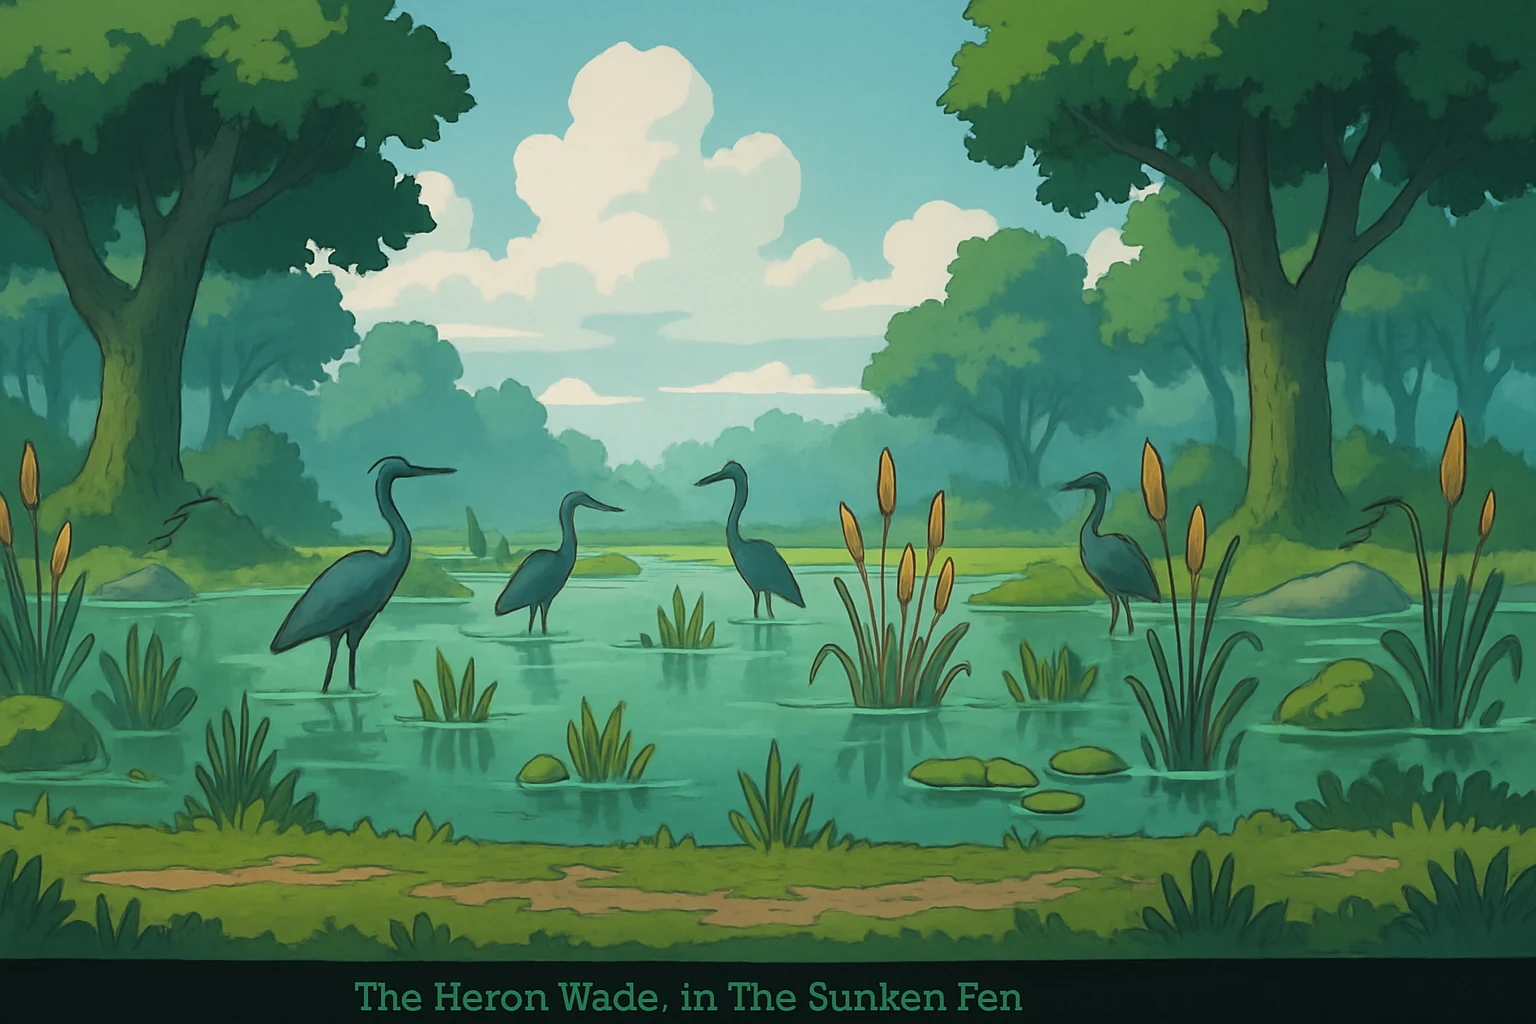
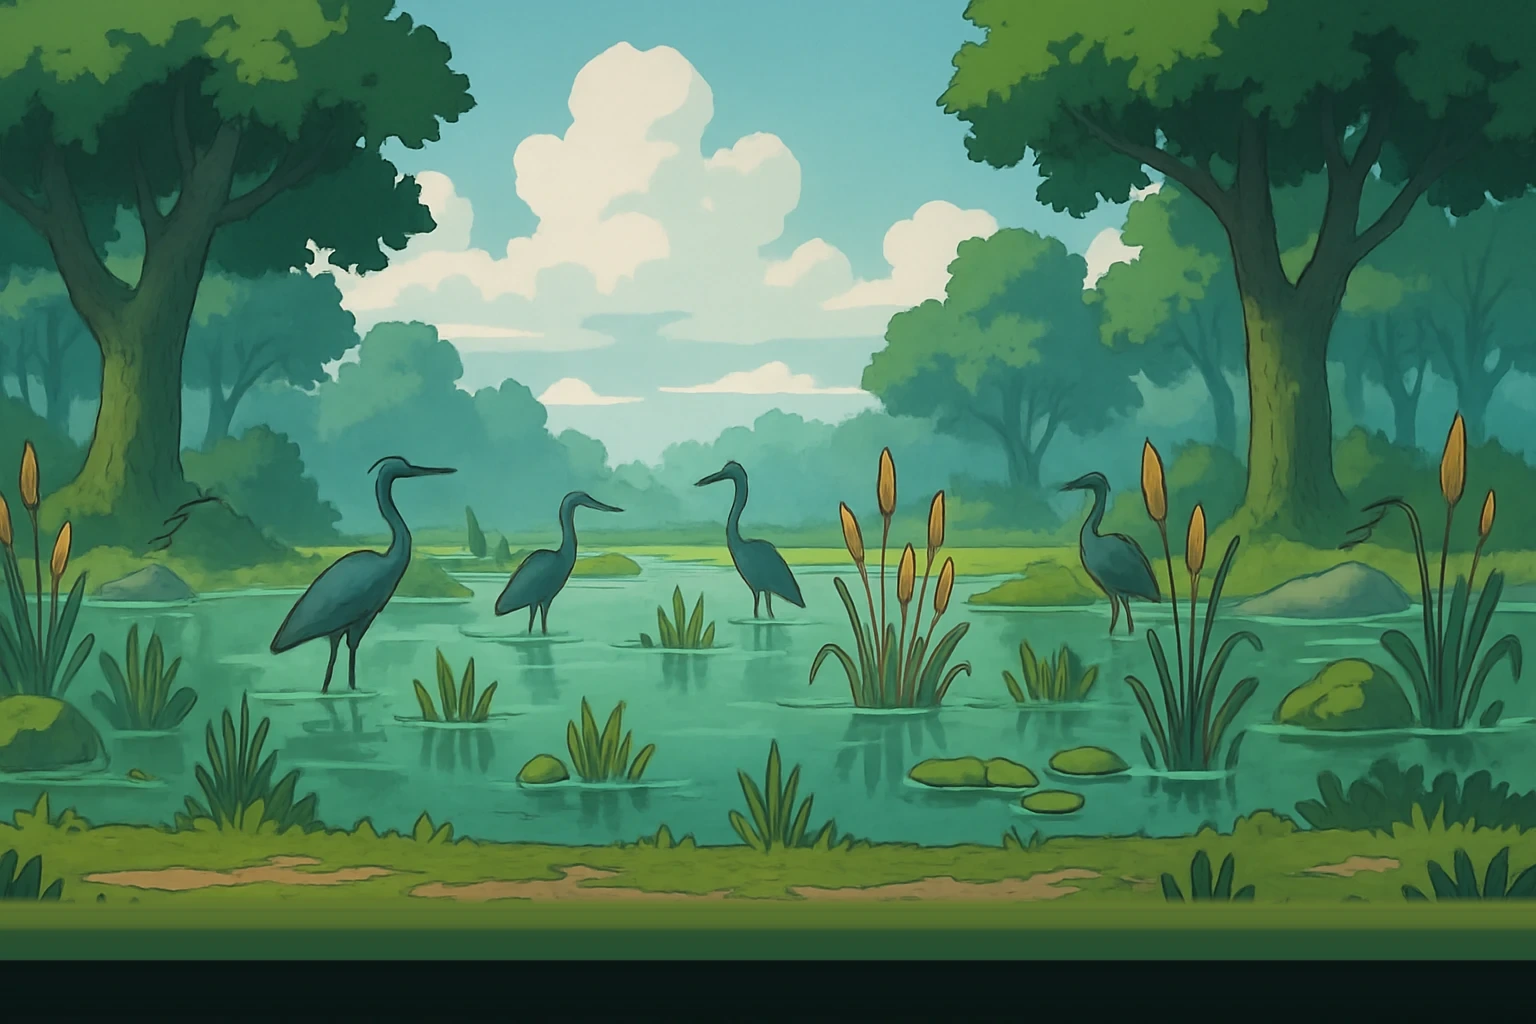
Grove: the plates stop saying their own names, and Quests gets a door
TWO THINGS LUKE ASKED FOR.

── THE BAKED-IN CAPTIONS ───────────────────────────────────────────────
Four plates came back from the generator with a title painted into them --
"The Heron Wade, in The Sunken Fen" -- despite the plate brief ending in
"no text, no words, no logo, no watermark, no border". The model ignored it.

⚠ NOTHING WAS REDRAWN. Regenerating a shipped plate costs money and loses
to the original nearly every time. The caption sits in a flat horizontal
band of dirt BELOW the painted ground line, and a flat band is the one
thing repairable without a model: every row is rebuilt from its own median
colour, which is what the band would have been had the caption never been
painted on it. Feathered at the top edge so the repair does not meet the
art in a hard line. Originals kept in .promo/plate-backup.

Cloning a clean slice sideways was the first cut and only works where the
lettering leaves clean band beside it -- true of shrike_cliffs, not of the
other two, whose bands carry enough rock and grass texture that the
detector correctly calls the whole width busy.

sigil_road is DELIBERATELY NOT TOUCHED: its lettering is carved into a
gravestone as part of the scene, which is a signpost rather than a
watermark, and repairing it means repainting a stone. Luke's call.

── QUESTS IS A FIRST-CLASS DOOR ────────────────────────────────────────
Luke: "I wamt a question meni item and area first class please design it
[…]

Changed region(s): [[0.0, 0.875, 0.6875, 1.0], [0.7188, 0.875, 1.0, 0.9375]]

diff --git a/src/components/grove/GroveClient.js b/src/components/grove/GroveClient.js
@@ -140,7 +140,7 @@ const GROVE_STAT_READOUT = {
 // annotates itself is a menu that does not trust its own labels, and nine of them on one screen is the
 // list telling you to read rather than to pick. GroveMenu still renders `note` when a row carries one;
 // nothing does any more.
-const familiesFor = ({ benchFresh = 0, statuesHeld = 0 } = {}) => [
+const familiesFor = ({ benchFresh = 0, statuesHeld = 0, questsReady = 0, questsActive = 0 } = {}) => [
     {
         title: "Go", rows: [
             { k: "map", label: "Map", art: "/images/grove/ui-map.webp" },
@@ -158,7 +158,16 @@ const familiesFor = ({ benchFresh = 0, statuesHeld = 0 } = {}) => [
             // I grabbed an asset because it was lying around and its name sounded right, which is
             // [[grep-the-class-name-before-taking-it]] wearing a different hat. ui-quests.webp is a
             // notice board drawn for this row.
-            { k: "quests", label: "Quests", art: "/images/grove/ui-quests.webp" },
+            // ⚠ THE SAME BADGE RULE AS THE ZONE'S, because it is the same door and a player should
+            // not have to learn that the number means something different depending on where they are
+            // standing. Ready-to-hand-in badges; in-progress is only a note. See ZONE_FAMILIES.
+            {
+                k: "quests", label: "Quests", art: "/images/grove/ui-quests.webp",
+                badge: questsReady > 0 ? String(questsReady) : null,
+                note: questsReady > 0
+                    ? `${questsReady} ready to hand in`
+                    : questsActive > 0 ? `${questsActive} on the go` : null,
+            },
             // ⚠ TOWN IS A PLACE IN THE GROVE, NOT A WAY OUT OF IT. Luke: "if you go to town, you
             // completely get booted out of the Grove. Like, the whole experience is lost... when you're
             // in the town, it should be like you're in any other zone of the Grove with the menu on the
@@ -1572,6 +1581,10 @@ export default function GroveClient({ initial, initialView = null, initialTown =
                     // Whoever is standing in THIS zone, if anyone. Most zones have nobody — three givers
                     // across twelve rooms — so the scene draws a figure only when this is non-null.
                     npcHere={col.run ? null : (session.npcHere || null)}
+                    // ⚠ FROM THE SESSION'S OWN BOARD, which refreshBoard keeps current -- so the badge
+                    // moves the moment a step finishes rather than at the next zone entry.
+                    questsReady={(session.quests || []).filter((q) => q.active?.ready).length}
+                    questsActive={(session.quests || []).filter((q) => q.active?.started && !q.active.ready).length}
                     // ── ⚠ THE COLISEUM IS IN A ZONE, SO IT IS DRAWN IN THAT ZONE ───────────────
                     // coliseumState is keyed on MAP, which is why its card showed up identically in
                     // all twelve rooms and "Coliseum · zone 7" was a sentence about a place that did
@@ -1863,7 +1876,14 @@ export default function GroveClient({ initial, initialView = null, initialTown =
                 open={menuOpen}
                 onOpen={() => setMenuOpen(true)}
                 onClose={() => setMenuOpen(false)}
-                families={familiesFor({ benchFresh: st ? readyCount(st) : 0, statuesHeld: statueCount })}
+                families={familiesFor({
+                    benchFresh: st ? readyCount(st) : 0,
+                    statuesHeld: statueCount,
+                    // The hub has no session, so the board comes off st -- the same list, read from the
+                    // other of its two homes. See the note where GroveQuests is mounted.
+                    questsReady: (st?.quests || []).filter((q) => q.active?.ready).length,
+                    questsActive: (st?.quests || []).filter((q) => q.active?.started && !q.active.ready).length,
+                })}
                 current={view}
                 onPick={(k) => setView(k)}
             />

diff --git a/src/components/grove/GroveScene.js b/src/components/grove/GroveScene.js
@@ -140,6 +140,26 @@ const SETTLE_EVERY_MS = 45_000;
 // ⚠ SAME KEYS AS BEFORE. openPanel is unchanged and still flushes the kill batch before anything opens --
 // see the note at the markup. The arrangement moved; the wiring did not.
 const ZONE_FAMILIES = [
+    // ── ⚠ QUESTS IS A ZONE DOOR NOW, AND IT IS THE FIRST ONE ──────────────────────────────────
+    // Luke: "I wamt a question meni item and area first class please design it properly."
+    //
+    // It was deliberately left out, and the note in GroveClient said why: "minus Quests, which has no
+    // meaning while you are standing inside a zone." That was TRUE of what the panel used to be -- a
+    // tracker whose whole job was naming the zone a giver stands in, which is a thing you read before
+    // you set off, not while you are fighting.
+    //
+    // It is not true of what the panel is now. The log carries live progress, the creature and the rooms
+    // it lives in, and a hand-in -- and every one of those is most useful IN a zone, mid-kill, when the
+    // question is "does any of this count for anything". Leaving it out meant the only way to look at a
+    // quest while doing it was to leave the zone, and leaving is not a free action.
+    //
+    // ⚠ AND IT GOES ABOVE THE MAP. The menu's first row is what the game thinks you should do next;
+    // the map is where you go when you have decided. [[a-screen-with-no-door-is-not-shipped]].
+    {
+        title: "Do", rows: [
+            { k: "quests", label: "Quests", art: "/images/grove/ui-quests.webp" },
+        ],
+    },
     {
         title: "Go", rows: [
             { k: "map", label: "Map", art: "/images/grove/ui-map.webp" },
@@ -493,6 +513,7 @@ export default function GroveScene({
     // GroveClient off the shared recipe rule; see the note there.
     benchReady = 0,
     onSettle, onBoss, onLeave, onDeath, onTravel, onPanel, paused = false, unlockedN = 1,
+    questsReady = 0, questsActive = 0,
 }) {
     const hostRef = useRef(null);
     const worldLayerRef = useRef(null);
@@ -4585,7 +4606,19 @@ export default function GroveScene({
                     families={ZONE_FAMILIES.map((f) => ({
                         ...f,
                         rows: f.rows.map((r) => (
-                            r.k === "bench" && benchReady > 0
+                            // ⚠ READY TO HAND IN IS THE BADGE; IN PROGRESS IS ONLY A NOTE. A number on
+                            // the closed menu means "there is something to collect in here", which is true
+                            // of a finished step and a lie about one you are halfway through -- and a badge
+                            // that is always lit is a badge nobody looks at.
+                            r.k === "quests"
+                                ? {
+                                    ...r,
+                                    badge: questsReady > 0 ? String(questsReady) : null,
+                                    note: questsReady > 0
+                                        ? `${questsReady} ready to hand in`
+                                        : questsActive > 0 ? `${questsActive} on the go` : null,
+                                }
+                                : r.k === "bench" && benchReady > 0
                                 ? { ...r, badge: benchReady > 99 ? "99+" : String(benchReady), note: `${benchReady} ready` }
                                 // ⚠ NOTHING TO WARN ABOUT. This said FULL, and then "n slots left",
                                 // because the bag had a ceiling and loot past it was never granted. The
